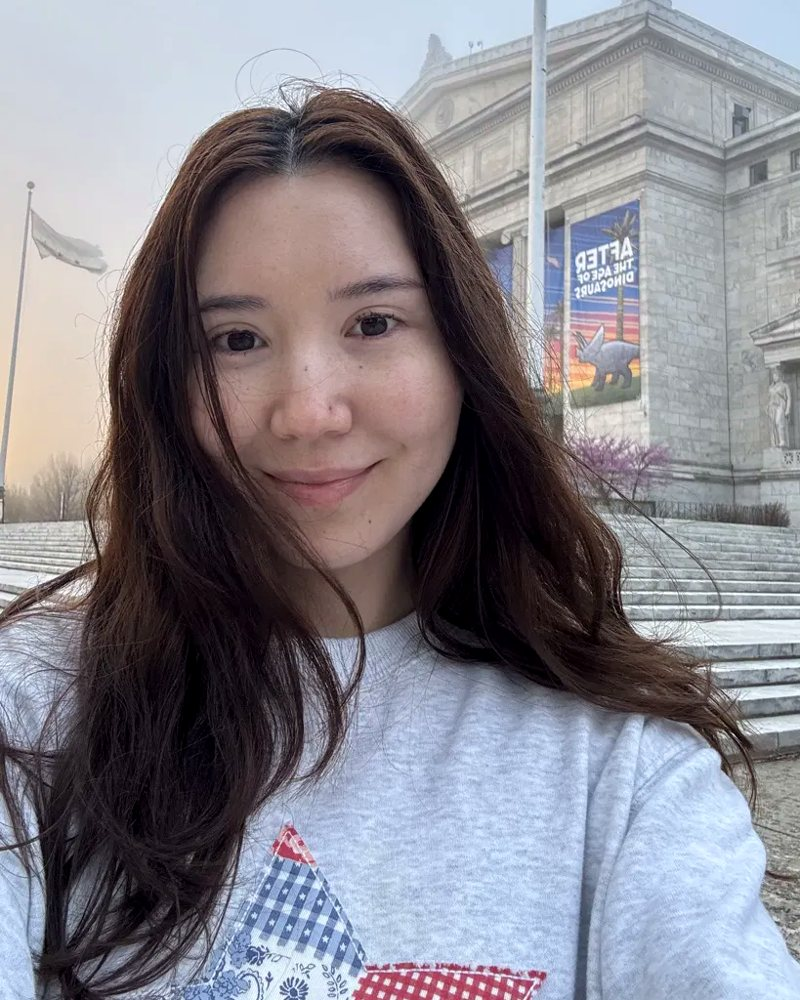
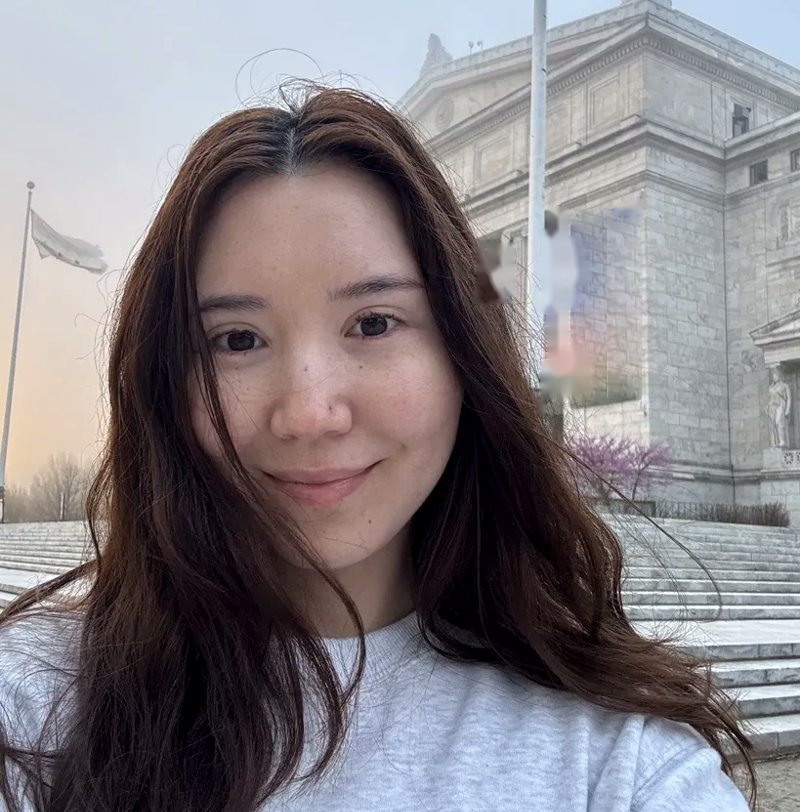
New site

diff --git a/site/index.html b/site/index.html
@@ -42,7 +42,7 @@ h1{font-family:'Playfair Display',serif;font-weight:500;font-size:clamp(54px,8vw
 .cap::after{content:"";position:absolute;inset:0;background:linear-gradient(105deg,transparent 40%,rgba(255,255,255,.9) 50%,transparent 60%);transform:translateX(-120%);animation:glint 5s ease-in-out 2s infinite}
 @keyframes glint{0%,60%{transform:translateX(-120%)}100%{transform:translateX(120%)}}
 /* robot */
-.robot{position:absolute;left:8px;top:405px;width:170px;cursor:pointer;z-index:4;animation:bob 4.6s ease-in-out infinite;transition:filter .3s}
+.robot{position:fixed;right:22px;bottom:18px;width:118px;z-index:60;animation:bob 4.6s ease-in-out infinite;transition:filter .3s}
 .robot:hover{filter:drop-shadow(0 8px 18px rgba(138,107,216,.35))}
 @keyframes bob{0%,100%{transform:translateY(0)}50%{transform:translateY(-8px)}}
 .robot .arm{transform-box:fill-box;transform-origin:20% 90%;animation:wave 2.4s ease-in-out .8s 2,wave 2.4s ease-in-out 9s infinite}
@@ -51,8 +51,6 @@ h1{font-family:'Playfair Display',serif;font-weight:500;font-size:clamp(54px,8vw
 @keyframes eyeblink{0%,94%,100%{transform:scaleY(1)}97%{transform:scaleY(.08)}}
 .robot .mouth{transform-box:fill-box;transform-origin:center;transition:transform .25s}
 .robot:hover .mouth{transform:scale(1.35)}
-.robot .tip{position:absolute;left:100%;top:-6px;margin-left:6px;padding:9px 14px;border-radius:14px;background:rgba(255,255,255,.95);box-shadow:0 12px 30px rgba(100,80,160,.22);font-size:13px;font-weight:600;white-space:nowrap;opacity:0;transform:translateY(6px);transition:.25s;pointer-events:none}
-.robot:hover .tip,.robot:focus .tip{opacity:1;transform:none}
 .sec{padding:76px 80px;margin-top:44px}
 .eyebrow{font-size:12px;letter-spacing:.24em;text-transform:uppercase;color:var(--pink)}
 h2{font-family:'Playfair Display',serif;font-weight:500;font-size:clamp(38px,5vw,60px);margin:12px 0 26px;letter-spacing:-.01em}
@@ -125,6 +123,53 @@ footer .lk a:hover{color:var(--pink)}
 footer .dep{display:inline-block;margin-top:18px;font:12px 'IBM Plex Mono',monospace;color:#8a85a0}
 .js .reveal{opacity:0;transform:translateY(24px);transition:opacity .9s ease,transform .9s cubic-bezier(.2,.8,.2,1)}
 .js .reveal.in{opacity:1;transform:none}
+
+.badge-wrap{display:flex;flex-direction:column;align-items:center;transform-origin:50% 0;animation:swing 7s ease-in-out infinite;justify-self:center}
+@keyframes swing{0%,100%{transform:rotate(-1.6deg)}50%{transform:rotate(1.6deg)}}
+.badge-wrap:hover{animation-duration:3s}
+.lanyard{width:30px;height:120px;margin-top:-70px;background:repeating-linear-gradient(180deg,#ff7ab8 0 14px,#c58cff 14px 28px);border-radius:3px 3px 0 0;box-shadow:0 0 0 1px rgba(255,255,255,.7),0 6px 14px rgba(150,100,200,.25)}
+.clip{width:38px;height:26px;border-radius:7px;background:linear-gradient(#f2f3f8,#9aa0b8);border:1px solid #fff;box-shadow:0 4px 10px rgba(80,70,130,.3);position:relative;z-index:2}
+.badge{width:292px;margin-top:-8px;padding:34px 22px 18px;border-radius:24px;background:linear-gradient(160deg,#fff,#efe7ff 70%,#e5efff);border:1px solid #fff;box-shadow:0 24px 54px rgba(120,100,180,.28),inset 0 1px 0 #fff;position:relative;text-align:center}
+.slot{position:absolute;top:12px;left:50%;width:62px;height:11px;margin-left:-31px;border-radius:99px;background:#d9d2ee;box-shadow:inset 0 2px 3px rgba(80,60,140,.3)}
+.bphoto{width:150px;height:178px;margin:0 auto 14px;border-radius:16px;overflow:hidden;border:4px solid #fff;box-shadow:0 10px 24px rgba(110,90,170,.28)}
+.bphoto img{width:100%;height:100%;object-fit:cover;object-position:50% 25%;display:block}
+.bt{font-family:'IBM Plex Mono',monospace;font-size:11px;letter-spacing:.24em;color:var(--violet)}
+.br{font-family:'Playfair Display',serif;font-size:23px;line-height:1.2;margin:8px 0 12px}
+.br span{font-size:15px;color:var(--mute);font-family:Inter,sans-serif}
+.bchips{margin-bottom:6px}.bchips .chip{font-size:11.5px;padding:5px 11px;margin:0 3px 6px}
+.bl{font-size:12px;color:var(--mute);margin-bottom:12px}
+.barcode{height:26px;border-radius:4px;background:repeating-linear-gradient(90deg,#2a2640 0 2px,transparent 2px 4px,#2a2640 4px 5px,transparent 5px 9px,#2a2640 9px 12px,transparent 12px 14px);opacity:.75}
+.robot svg{display:block;width:100%;height:auto;pointer-events:none}
+.rbub{position:absolute;bottom:calc(100% + 6px);right:0;width:max-content;max-width:230px;padding:11px 16px;border-radius:18px;background:rgba(255,255,255,.96);box-shadow:0 14px 34px rgba(100,80,160,.24);border:1px solid #fff;font-size:14px;font-weight:600;line-height:1.35;color:var(--ink);opacity:0;transform:translateY(8px) scale(.96);transition:opacity .35s,transform .35s;pointer-events:none}
+.rbub::after{content:"";position:absolute;bottom:-7px;right:36px;width:14px;height:14px;background:#fff;transform:rotate(45deg);border-radius:0 0 4px 0}
+.rbub.left{right:auto;left:0}.rbub.left::after{right:auto;left:36px}
+.rbub.show{opacity:1;transform:none}
+.rbub b{color:var(--pink)}
+.robot.hop{animation:hop .9s cubic-bezier(.3,.9,.4,1)}
+@keyframes hop{0%{transform:scale(1.1,.88)}30%{transform:translateY(-70px) scale(.94,1.1)}55%{transform:translateY(-70px) rotate(8deg)}80%{transform:translateY(0) scale(1.08,.9)}100%{transform:none}}
+/* draggable robot */
+.robot{touch-action:none;user-select:none;-webkit-user-select:none;cursor:grab}
+.robot.dragging{cursor:grabbing;animation:none;filter:drop-shadow(0 18px 24px rgba(90,70,160,.35))}
+.robot.dragging .arm{animation:wave .45s ease-in-out infinite}
+.robot.dragging .mouth{transform:scale(1.5)}
+.robot.drop{animation:drop .6s cubic-bezier(.3,1.6,.5,1)}
+@keyframes drop{0%{transform:scale(1.08,.9) translateY(-6px)}60%{transform:scale(.94,1.08)}100%{transform:none}}
+/* finale */
+.finale{padding:60px 0 50px;min-height:380px}
+.fscene{display:flex;flex-direction:column;align-items:center;opacity:0;transform:translateY(30px);transition:opacity .9s ease,transform .9s cubic-bezier(.2,.8,.2,1)}
+body.at-end .fscene,.no-js .fscene{opacity:1;transform:none}
+.fbub{padding:12px 24px;border-radius:99px;background:rgba(255,255,255,.95);box-shadow:0 14px 34px rgba(100,80,160,.22);font-family:'Playfair Display',serif;font-style:italic;font-size:24px;color:#3b3552;margin-bottom:6px;position:relative}
+.fbub span{color:var(--pink)}
+.fbub::after{content:"";position:absolute;bottom:-7px;left:50%;margin-left:-7px;width:14px;height:14px;background:#fff;transform:rotate(45deg);border-radius:0 0 4px 0}
+.frow{display:flex;align-items:flex-end;justify-content:center;gap:6px;margin-top:10px}
+.fcloud{width:300px;height:auto;animation:cfloat 6s ease-in-out infinite;margin-bottom:12px}
+@keyframes cfloat{0%,100%{transform:translateY(0)}50%{transform:translateY(-12px)}}
+.frobot{width:130px;animation:bob 4.6s ease-in-out infinite}.frobot.f2{width:112px;animation-delay:.6s}
+.frobot svg{display:block;width:100%;height:auto}
+.frobot .arm{transform-box:fill-box;transform-origin:20% 90%;animation:wave 2.4s ease-in-out infinite}
+.frobot .eye{transform-box:fill-box;transform-origin:center;animation:eyeblink 5s infinite}
+body.at-end .robot{opacity:0;pointer-events:none;transition:opacity .4s}
+@media(max-width:640px){.fcloud{width:170px}.frobot{width:84px}.frobot.f2{width:74px}.fbub{font-size:19px;padding:10px 18px}.finale{padding-bottom:30px}}
 @media(max-width:1000px){
  .hero,.about,.case-grid{grid-template-columns:1fr}
  .hero,.sec{padding:44px 28px}.contact{padding:56px 28px}
@@ -136,11 +181,12 @@ footer .dep{display:inline-block;margin-top:18px;font:12px 'IBM Plex Mono',monos
  .cards,.skill-grid,.cards4,.repos{grid-template-columns:1fr}
  .hero,.sec{padding:34px 20px;border-radius:28px}
  nav.top{gap:10px 22px;font-size:11px}
- .right{height:480px}.photo{width:76%;right:auto;left:12%}.cap{left:112px;right:0;top:372px;font-size:15px;white-space:normal;text-align:center;padding:10px 16px;border-radius:22px;line-height:1.25}.robot{width:120px;top:340px;left:0}
- .robot .tip{display:none}
- .id .r{font-size:22px}
+ .right{height:440px}.photo{width:76%;right:auto;left:12%}.cap{left:12%;right:0;top:372px;font-size:15px;white-space:normal;text-align:center;padding:10px 16px;border-radius:22px;line-height:1.25}
+  .badge{width:100%;max-width:292px}
 }
 @media(prefers-reduced-motion:reduce){
+ .badge-wrap{animation:none}
+ .fscene{opacity:1;transform:none}
  *,*::before,*::after{animation:none!important;transition:none!important;scroll-behavior:auto!important}
  .js .reveal{opacity:1;transform:none}
  h1{background-position:0 0}
@@ -160,32 +206,8 @@ footer .dep{display:inline-block;margin-top:18px;font:12px 'IBM Plex Mono',monos
   <a class="cta" href="#contact">LET'S CONNECT</a>
  </div>
  <div class="right">
-  <div class="photo"><img src="img/about.jpg" width="660" height="860" alt="Portrait of Aiana Mambetova in Chicago"></div>
+  <div class="photo"><img src="img/hero.jpg" width="660" height="860" alt="Portrait of Aiana Mambetova in Chicago"></div>
   <div class="cap">Biggest ideas feel better together</div>
-  <div class="robot" id="robot" tabindex="0" aria-label="Friendly robot: ask me about my agents">
-   <svg viewBox="0 0 270 330" role="img" aria-label="A friendly frosted-glass robot waving hello" style="display:block;width:100%;height:auto">
- <defs>
-  <radialGradient id="gl" cx="35%" cy="25%" r="80%"><stop offset="0" stop-color="#fff" stop-opacity=".96"/><stop offset=".5" stop-color="#eef6ff" stop-opacity=".8"/><stop offset="1" stop-color="#bcd8f2" stop-opacity=".66"/></radialGradient>
-  <radialGradient id="eye" cx="35%" cy="30%" r="75%"><stop offset="0" stop-color="#5a5f78"/><stop offset=".5" stop-color="#14141f"/><stop offset="1" stop-color="#000"/></radialGradient>
-  <filter id="bl"><feGaussianBlur stdDeviation="9"/></filter>
- </defs>
- <ellipse cx="135" cy="318" rx="80" ry="10" fill="#7d93b8" opacity=".3" filter="url(#bl)"/>
- <g class="arm"><path d="M210 205 Q258 190 256 135" fill="none" stroke="url(#gl)" stroke-width="24" stroke-linecap="round"/><circle cx="256" cy="128" r="19" fill="url(#gl)"/></g>
- <path d="M60 210 Q30 235 40 268" fill="none" stroke="url(#gl)" stroke-width="24" stroke-linecap="round"/>
- <rect x="62" y="190" width="146" height="116" rx="50" fill="url(#gl)"/>
- <rect x="70" y="196" width="60" height="26" rx="13" fill="#fff" opacity=".55"/>
- <rect x="38" y="52" width="194" height="150" rx="66" fill="url(#gl)"/>
- <rect x="52" y="60" width="90" height="34" rx="17" fill="#fff" opacity=".6"/>
- <rect x="58" y="76" width="154" height="102" rx="48" fill="#fff" opacity=".35"/>
- <g id="eyes">
-  <g class="eye"><ellipse cx="102" cy="128" rx="19" ry="23" fill="url(#eye)"/><circle class="gl1" cx="109" cy="119" r="6" fill="#fff"/></g>
-  <g class="eye"><ellipse cx="168" cy="128" rx="19" ry="23" fill="url(#eye)"/><circle class="gl1" cx="175" cy="119" r="6" fill="#fff"/></g>
- </g>
- <path class="mouth" d="M118 160 Q135 174 152 160" fill="none" stroke="#6f86a8" stroke-width="5" stroke-linecap="round"/>
- <circle cx="80" cy="156" r="10" fill="#ffc2dc" opacity=".5"/><circle cx="190" cy="156" r="10" fill="#ffc2dc" opacity=".5"/>
-</svg>
-   <span class="tip">Ask me about my agents</span>
-  </div>
  </div>
 </header>
 
@@ -194,11 +216,17 @@ footer .dep{display:inline-block;margin-top:18px;font:12px 'IBM Plex Mono',monos
   <div class="eyebrow">About</div><h2>My path</h2>
   <p>My path is economics → code → systems → cloud &amp; AI, and each step added a skill I still use. Today I automate the cloud with Python, Terraform and GitHub Actions, and build AI agents with guardrails. I'm completing an M.S. in Information Technology at Illinois Tech, and I treat every project as a chance to build something technical and a little bit beautiful.</p>
  </div>
- <div class="id"><img src="img/hero.jpg" width="900" height="675" alt="Aiana in Chicago">
-  <div class="t">ACCESS CARD</div><div class="r">Cloud &amp; AI Developer · Python · Terraform · AWS</div>
-  <span class="chip">AWS Solutions Architect – Associate</span><span class="chip">AWS Cloud Practitioner</span><span class="chip">EF SET English C2</span><span class="chip">M.S. Information Technology · Illinois Tech</span><span class="chip">Kubernetes</span><span class="chip">Linux</span>
-  <div class="l">Kyrgyz · Russian · English</div>
- </div></div>
+ <div class="badge-wrap">
+   <div class="lanyard" aria-hidden="true"></div><div class="clip" aria-hidden="true"></div>
+   <div class="badge">
+    <div class="slot" aria-hidden="true"></div>
+    <div class="bphoto"><img src="img/about.jpg" width="600" height="600" alt="Aiana in Chicago"></div>
+    <div class="bt">ACCESS CARD</div>
+    <div class="br">Cloud &amp; AI Developer<br><span>Python · Terraform · AWS</span></div>
+    <div class="bchips"><span class="chip">AWS Solutions Architect – Associate</span><span class="chip">AWS Cloud Practitioner</span><span class="chip">EF SET English C2</span><span class="chip">M.S. Information Technology · Illinois Tech</span><span class="chip">Kubernetes</span><span class="chip">Linux</span></div>
+    <div class="barcode" aria-hidden="true"></div>
+   </div>
+  </div></div>
 </section>
 
 <section class="glass sec reveal" id="work">
@@ -330,11 +358,96 @@ footer .dep{display:inline-block;margin-top:18px;font:12px 'IBM Plex Mono',monos
  <div class="btns"><a class="btn2" href="https://www.linkedin.com/in/aian-mambetova-8359572b8/" target="_blank" rel="noopener">LinkedIn ↗</a><a class="btn2" href="https://github.com/aian17/devops-portfolio" target="_blank" rel="noopener">Source code ↗</a></div>
 </section>
 
-<footer>
- <div class="q">Biggest ideas feel better together</div>
- <div class="lk"><a href="https://github.com/aian17" target="_blank" rel="noopener">GitHub</a><a href="https://www.linkedin.com/in/aian-mambetova-8359572b8/" target="_blank" rel="noopener">LinkedIn</a><span>Chicago</span></div>
- <div class="dep">aiancooldevops.com · HTTPS · <span id="deployed">live</span></div>
+<footer class="finale" id="finale">
+ <div class="fscene" aria-label="A friendly cloud and two robots wish you a good day">
+  <div class="fbub">Have a good day <span>♥</span></div>
+  <div class="frow">
+   <div class="frobot f1"><svg viewBox="0 0 270 330" aria-hidden="true" style="display:block;width:100%;height:auto">
+ <defs>
+  <radialGradient id="fgl" cx="35%" cy="25%" r="80%"><stop offset="0" stop-color="#fff" stop-opacity=".96"/><stop offset=".5" stop-color="#eef6ff" stop-opacity=".8"/><stop offset="1" stop-color="#bcd8f2" stop-opacity=".66"/></radialGradient>
+  <radialGradient id="fey" cx="35%" cy="30%" r="75%"><stop offset="0" stop-color="#5a5f78"/><stop offset=".5" stop-color="#14141f"/><stop offset="1" stop-color="#000"/></radialGradient>
+  <filter id="fbl"><feGaussianBlur stdDeviation="9"/></filter>
+ </defs>
+ <ellipse cx="135" cy="318" rx="80" ry="10" fill="#7d93b8" opacity=".3" filter="url(#fbl)"/>
+ <g class="arm"><path d="M210 205 Q258 190 256 135" fill="none" stroke="url(#fgl)" stroke-width="24" stroke-linecap="round"/><circle cx="256" cy="128" r="19" fill="url(#fgl)"/></g>
+ <path d="M60 210 Q30 235 40 268" fill="none" stroke="url(#fgl)" stroke-width="24" stroke-linecap="round"/>
+ <rect x="62" y="190" width="146" height="116" rx="50" fill="url(#fgl)"/>
+ <rect x="70" y="196" width="60" height="26" rx="13" fill="#fff" opacity=".55"/>
+ <rect x="38" y="52" width="194" height="150" rx="66" fill="url(#fgl)"/>
+ <rect x="52" y="60" width="90" height="34" rx="17" fill="#fff" opacity=".6"/>
+ <rect x="58" y="76" width="154" height="102" rx="48" fill="#fff" opacity=".35"/>
+ <g id="eyes">
+  <g class="eye"><ellipse cx="102" cy="128" rx="19" ry="23" fill="url(#fey)"/><circle class="gl1" cx="109" cy="119" r="6" fill="#fff"/></g>
+  <g class="eye"><ellipse cx="168" cy="128" rx="19" ry="23" fill="url(#fey)"/><circle class="gl1" cx="175" cy="119" r="6" fill="#fff"/></g>
+ </g>
+ <path class="mouth" d="M118 160 Q135 174 152 160" fill="none" stroke="#6f86a8" stroke-width="5" stroke-linecap="round"/>
+ <circle cx="80" cy="156" r="10" fill="#ffc2dc" opacity=".5"/><circle cx="190" cy="156" r="10" fill="#ffc2dc" opacity=".5"/>
+</svg></div>
+   <svg class="fcloud" viewBox="0 0 320 220" aria-hidden="true">
+ <defs>
+  <radialGradient id="cg" cx="35%" cy="25%" r="85%"><stop offset="0" stop-color="#fff" stop-opacity=".95"/><stop offset=".55" stop-color="#eaf3ff" stop-opacity=".72"/><stop offset="1" stop-color="#c4dcf6" stop-opacity=".55"/></radialGradient>
+  <filter id="cb"><feGaussianBlur stdDeviation="7"/></filter>
+ </defs>
+ <ellipse cx="160" cy="205" rx="90" ry="8" fill="#7d93b8" opacity=".25" filter="url(#cb)"/>
+ <g fill="url(#cg)">
+  <circle cx="92" cy="128" r="58"/><circle cx="160" cy="92" r="72"/><circle cx="232" cy="128" r="58"/><rect x="60" y="120" width="200" height="66" rx="33"/>
+ </g>
+ <ellipse cx="128" cy="62" rx="40" ry="14" fill="#fff" opacity=".7" transform="rotate(-20 128 62)"/>
+ <ellipse cx="130" cy="128" rx="9.5" ry="12" fill="#14141f"/><circle cx="133" cy="123" r="3.5" fill="#fff"/>
+ <ellipse cx="190" cy="128" rx="9.5" ry="12" fill="#14141f"/><circle cx="193" cy="123" r="3.5" fill="#fff"/>
+ <path d="M144 150 Q160 166 176 150" fill="none" stroke="#6f86a8" stroke-width="4.5" stroke-linecap="round"/>
+ <circle cx="112" cy="150" r="9" fill="#ffc2dc" opacity=".55"/><circle cx="208" cy="150" r="9" fill="#ffc2dc" opacity=".55"/>
+</svg>
+   <div class="frobot f2"><svg viewBox="0 0 270 330" aria-hidden="true" style="display:block;width:100%;height:auto">
+ <defs>
+  <radialGradient id="fgl2" cx="35%" cy="25%" r="80%"><stop offset="0" stop-color="#fff" stop-opacity=".96"/><stop offset=".5" stop-color="#ffeaf4" stop-opacity=".8"/><stop offset="1" stop-color="#f6bcd8" stop-opacity=".66"/></radialGradient>
+  <radialGradient id="fey2" cx="35%" cy="30%" r="75%"><stop offset="0" stop-color="#5a5f78"/><stop offset=".5" stop-color="#14141f"/><stop offset="1" stop-color="#000"/></radialGradient>
+  <filter id="fbl2"><feGaussianBlur stdDeviation="9"/></filter>
+ </defs>
+ <ellipse cx="135" cy="318" rx="80" ry="10" fill="#7d93b8" opacity=".3" filter="url(#fbl2)"/>
+ <g class="arm"><path d="M210 205 Q258 190 256 135" fill="none" stroke="url(#fgl2)" stroke-width="24" stroke-linecap="round"/><circle cx="256" cy="128" r="19" fill="url(#fgl2)"/></g>
+ <path d="M60 210 Q30 235 40 268" fill="none" stroke="url(#fgl2)" stroke-width="24" stroke-linecap="round"/>
+ <rect x="62" y="190" width="146" height="116" rx="50" fill="url(#fgl2)"/>
+ <rect x="70" y="196" width="60" height="26" rx="13" fill="#fff" opacity=".55"/>
+ <rect x="38" y="52" width="194" height="150" rx="66" fill="url(#fgl2)"/>
+ <rect x="52" y="60" width="90" height="34" rx="17" fill="#fff" opacity=".6"/>
+ <rect x="58" y="76" width="154" height="102" rx="48" fill="#fff" opacity=".35"/>
+ <g id="eyes">
+  <g class="eye"><ellipse cx="102" cy="128" rx="19" ry="23" fill="url(#fey2)"/><circle class="gl1" cx="109" cy="119" r="6" fill="#fff"/></g>
+  <g class="eye"><ellipse cx="168" cy="128" rx="19" ry="23" fill="url(#fey2)"/><circle class="gl1" cx="175" cy="119" r="6" fill="#fff"/></g>
+ </g>
+ <g fill="none" stroke="#4b4663" stroke-width="4"><circle cx="102" cy="128" r="27" fill="#fff" fill-opacity=".18"/><circle cx="168" cy="128" r="27" fill="#fff" fill-opacity=".18"/><path d="M129 126 Q135 120 141 126"/><path d="M75 124 L56 118"/><path d="M195 124 L214 118"/></g><path class="mouth" d="M118 160 Q135 174 152 160" fill="none" stroke="#6f86a8" stroke-width="5" stroke-linecap="round"/>
+ <circle cx="80" cy="156" r="10" fill="#ffc2dc" opacity=".5"/><circle cx="190" cy="156" r="10" fill="#ffc2dc" opacity=".5"/>
+</svg></div>
+  </div>
+ </div>
 </footer>
+</div>
+
+
+<div class="robot" id="robot" role="img" tabindex="0" aria-label="Friendly robot guide. Drag me anywhere.">
+ <div class="rbub" id="rbub" aria-live="polite"></div>
+ <svg viewBox="0 0 270 330" role="img" aria-label="A friendly frosted-glass robot waving hello" style="display:block;width:100%;height:auto">
+ <defs>
+  <radialGradient id="gl" cx="35%" cy="25%" r="80%"><stop offset="0" stop-color="#fff" stop-opacity=".96"/><stop offset=".5" stop-color="#eef6ff" stop-opacity=".8"/><stop offset="1" stop-color="#bcd8f2" stop-opacity=".66"/></radialGradient>
+  <radialGradient id="eye" cx="35%" cy="30%" r="75%"><stop offset="0" stop-color="#5a5f78"/><stop offset=".5" stop-color="#14141f"/><stop offset="1" stop-color="#000"/></radialGradient>
+  <filter id="bl"><feGaussianBlur stdDeviation="9"/></filter>
+ </defs>
+ <ellipse cx="135" cy="318" rx="80" ry="10" fill="#7d93b8" opacity=".3" filter="url(#bl)"/>
+ <g class="arm"><path d="M210 205 Q258 190 256 135" fill="none" stroke="url(#gl)" stroke-width="24" stroke-linecap="round"/><circle cx="256" cy="128" r="19" fill="url(#gl)"/></g>
+ <path d="M60 210 Q30 235 40 268" fill="none" stroke="url(#gl)" stroke-width="24" stroke-linecap="round"/>
+ <rect x="62" y="190" width="146" height="116" rx="50" fill="url(#gl)"/>
+ <rect x="70" y="196" width="60" height="26" rx="13" fill="#fff" opacity=".55"/>
+ <rect x="38" y="52" width="194" height="150" rx="66" fill="url(#gl)"/>
+ <rect x="52" y="60" width="90" height="34" rx="17" fill="#fff" opacity=".6"/>
+ <rect x="58" y="76" width="154" height="102" rx="48" fill="#fff" opacity=".35"/>
+ <g id="eyes">
+  <g class="eye"><ellipse cx="102" cy="128" rx="19" ry="23" fill="url(#eye)"/><circle class="gl1" cx="109" cy="119" r="6" fill="#fff"/></g>
+  <g class="eye"><ellipse cx="168" cy="128" rx="19" ry="23" fill="url(#eye)"/><circle class="gl1" cx="175" cy="119" r="6" fill="#fff"/></g>
+ </g>
+ <path class="mouth" d="M118 160 Q135 174 152 160" fill="none" stroke="#6f86a8" stroke-width="5" stroke-linecap="round"/>
+ <circle cx="80" cy="156" r="10" fill="#ffc2dc" opacity=".5"/><circle cx="190" cy="156" r="10" fill="#ffc2dc" opacity=".5"/>
+</svg>
 </div>
 
 <script>
@@ -356,6 +469,39 @@ var reduce=window.matchMedia&&matchMedia('(prefers-reduced-motion: reduce)').mat
  document.addEventListener('mousemove',function(e){var b=r.getBoundingClientRect(),cx=b.left+b.width/2,cy=b.top+b.height*.4;
   var dx=e.clientX-cx,dy=e.clientY-cy,d=Math.hypot(dx,dy)||1,k=Math.min(d,300)/300*5;
   eyes.forEach(function(g){g.style.translate=(dx/d*k)+'px '+(dy/d*k)+'px'});});})();
+
+// robot guide: follows the page, hops between sections, can be dragged
+(function(){var r=document.getElementById('robot'),bub=document.getElementById('rbub');if(!r||!bub)return;
+ var dragging=false,moved=false,ox=0,oy=0,lastX=0,hideT=null,current=null,thanked=false;
+ var lines={top:'Hi! I\'m here to <b>show you around</b>',about:'This is <b>where it all started</b>',work:'Problems I like <b>to solve</b>',ai:'My <b>favourite part</b>',case:'<b>This page</b> is the project',end:'Thank you for visiting my page, <b>and for your time</b> ♥'};
+ function say(html,sticky){clearTimeout(hideT);var b=r.getBoundingClientRect();bub.classList.toggle('left',b.left+b.width/2<innerWidth/2);bub.innerHTML=html;bub.classList.add('show');
+  if(!sticky)hideT=setTimeout(function(){bub.classList.remove('show')},5200)}
+ function hop(){if(reduce||dragging)return;r.classList.remove('hop');void r.offsetWidth;r.classList.add('hop')}
+ r.addEventListener('animationend',function(e){if(e.animationName==='hop'||e.animationName==='drop')r.classList.remove('hop','drop')});
+ var map=[['top','.hero'],['about','#about'],['work','#work'],['ai','#ai'],['case','#case']];
+ if('IntersectionObserver' in window){var io=new IntersectionObserver(function(en){en.forEach(function(x){if(!x.isIntersecting)return;
+   var k=x.target.getAttribute('data-guide');if(k===current)return;current=k;
+   if(thanked)return;hop();say(lines[k])})},{threshold:.35,rootMargin:'0px 0px -30% 0px'});
+  map.forEach(function(p){var el=document.querySelector(p[1]);if(el){el.setAttribute('data-guide',p[0]);io.observe(el)}})}
+ function atEnd(){return innerHeight+scrollY>=document.documentElement.scrollHeight-60}
+ window.addEventListener('scroll',function(){var e=atEnd();
+  if(e&&!thanked){thanked=true;current='end';bub.classList.remove('show');document.body.classList.add('at-end')}
+  else if(!e&&thanked){thanked=false;current=null;document.body.classList.remove('at-end')}},{passive:true});
+ setTimeout(function(){if(current==='top')say('Psst, you can <b>drag me anywhere</b>')},6200);
+ function clamp(){var b=r.getBoundingClientRect();var x=Math.min(Math.max(b.left,4),innerWidth-b.width-4),y=Math.min(Math.max(b.top,4),innerHeight-b.height-4);r.style.left=x+'px';r.style.top=y+'px'}
+ r.addEventListener('pointerdown',function(e){var b=r.getBoundingClientRect();
+  r.style.left=b.left+'px';r.style.top=b.top+'px';r.style.right='auto';r.style.bottom='auto';r.style.width=b.width+'px';
+  dragging=true;moved=false;ox=e.clientX-b.left;oy=e.clientY-b.top;lastX=e.clientX;r.classList.add('dragging');r.classList.remove('drop','hop');
+  try{r.setPointerCapture(e.pointerId)}catch(_){}e.preventDefault()});
+ r.addEventListener('pointermove',function(e){if(!dragging)return;moved=true;
+  r.style.left=(e.clientX-ox)+'px';r.style.top=(e.clientY-oy)+'px';
+  var tilt=Math.max(-18,Math.min(18,(e.clientX-lastX)*1.2));lastX=e.clientX;r.style.transform='rotate('+tilt+'deg)'});
+ function end(){if(!dragging)return;dragging=false;r.classList.remove('dragging');r.style.transform='';clamp();void r.offsetWidth;r.classList.add('drop');
+  if(moved)say('Wheee! <b>Nice spot</b>')}
+ r.addEventListener('pointerup',end);r.addEventListener('pointercancel',end);
+ r.addEventListener('mouseenter',function(){if(!thanked&&!dragging)say('Ask me about <b>my agents</b>')});
+ window.addEventListener('resize',function(){if(r.style.left)clamp()});
+})();
 // card glow follows the cursor
 document.querySelectorAll('.c').forEach(function(c){c.addEventListener('mousemove',function(e){var b=c.getBoundingClientRect();c.style.setProperty('--mx',(e.clientX-b.left)+'px');c.style.setProperty('--my',(e.clientY-b.top)+'px')})});
 // last deployed
